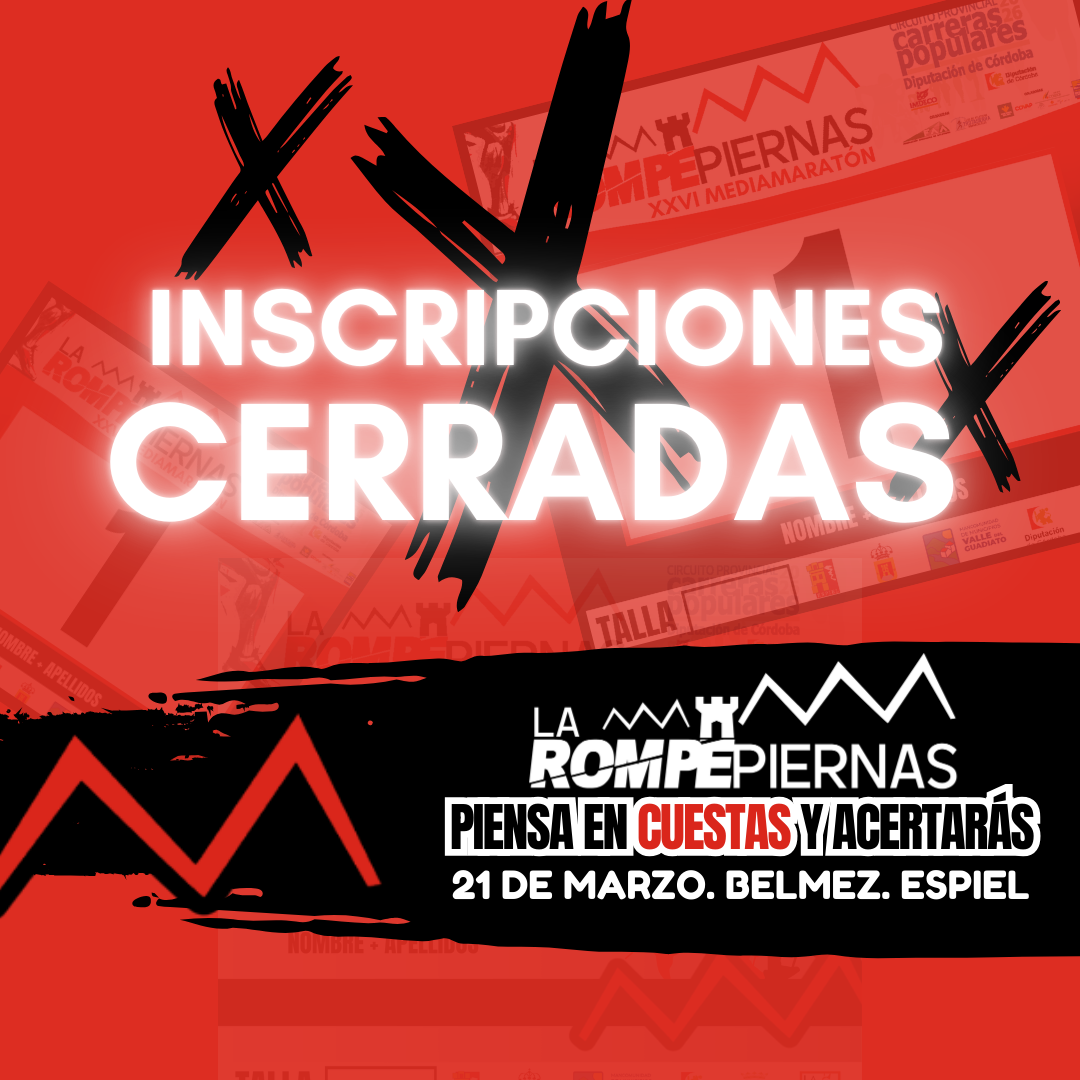
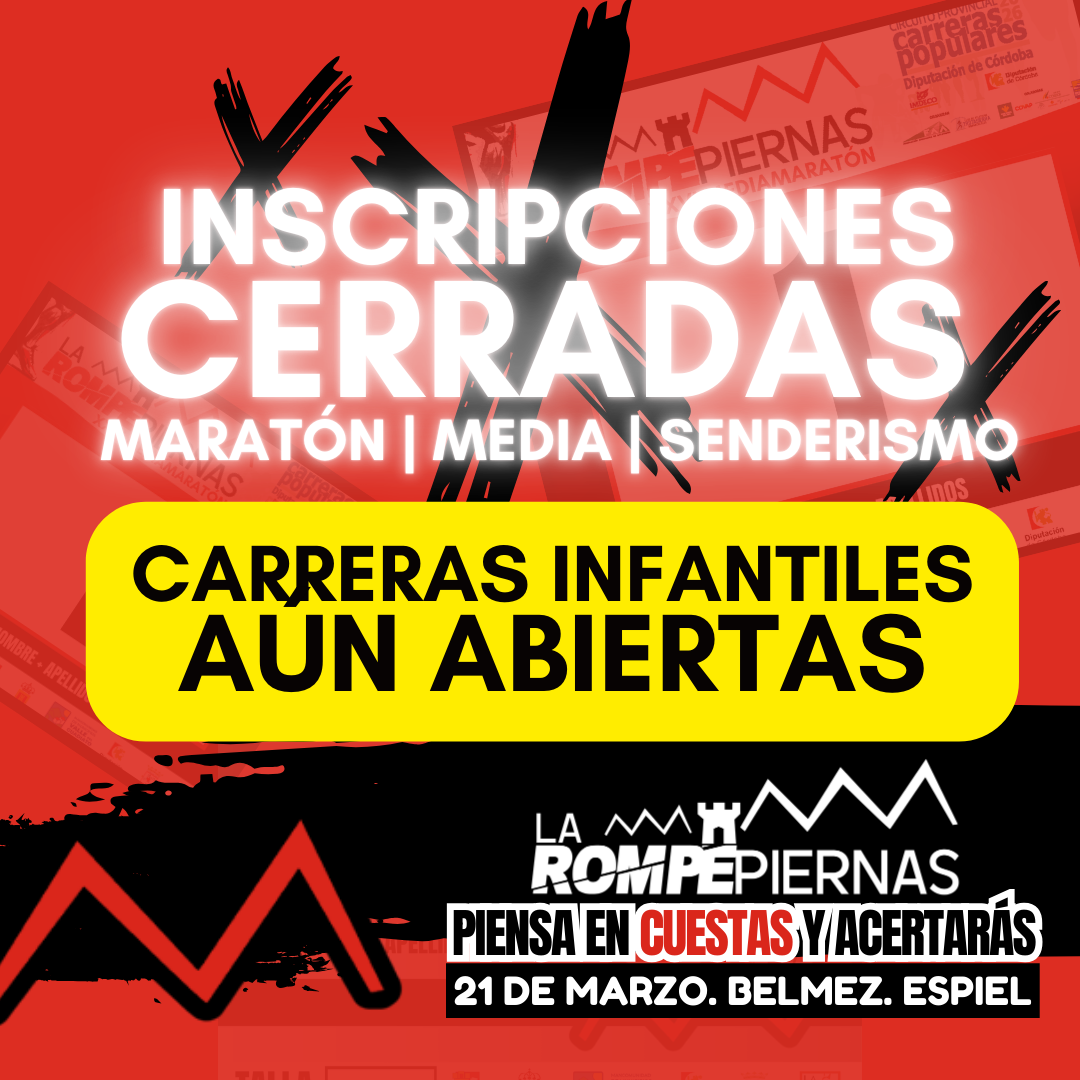
d

diff --git a/index.html b/index.html
@@ -35,7 +35,7 @@
         <!-- Header -->
         <header id="header" class="alt">
             <nav>
-                <a class="">INSCRIPCIONES CERRADAS</a>
+                <a class="">SÓLO INSCRIPCIONES MENORES ABIERTAS</a>
 
                 <a class="colorRed" href="https://www.instagram.com/la.rompepiernas.espiel.belmez/" target="_blank"><i class="fab fa-instagram"></i></a>
                 <a class="colorRed" href="https://www.facebook.com/profile.php?id=100064305145334" target="_blank"><i class="fab fa-facebook"></i></a>
@@ -160,7 +160,7 @@
                         <p>Los menores también tienen su protagonismo en La Rompepiernas.</p>
                         <p class="">Distancias según edad.</p>
                         <p class="">Localidad: Espiel</p>
-                        <a class="special">Inscripciones cerradas</a>
+                        <a class="special" href="https://www.global-tempo.com/principal_externo5.php?id=2959&menor=si&multiple=si#" target="_blank">Inscripciones menores abiertas</a>
                         <a href="2026/reglamento-larompepiernas-2026-menores.pdf" target="_blank" class="special">Reglamento Menores</a>
 
                     </div>
@@ -178,7 +178,8 @@
                                 INSCRIPCIONES CERRADAS
                             </h3>
                             <p>
-                                ❌❌❌ INSCRIPCIONES CERRADAS ❌❌❌
+                                INSCRIPCIONES MARATÓN | MEDIA | SENDERISMO YA CERRADAS  ❌❌❌
+                                ✅ Aún SIGUEN ABIERTAS CARRERAS DE MENORES
                                 👥 La Rompepiernas Belmez Espiel, sus vecinos, sus voluntarios y todo el equipo de organización os espera el próximo Sábado 21 de marzo 📅
                                 💪🏻 Sabemos que conseguiréis cruzar una de las metas más duras de España en carreras por asfalto
                                 📌 Seguid en redes porque iremos publicando información interesante
